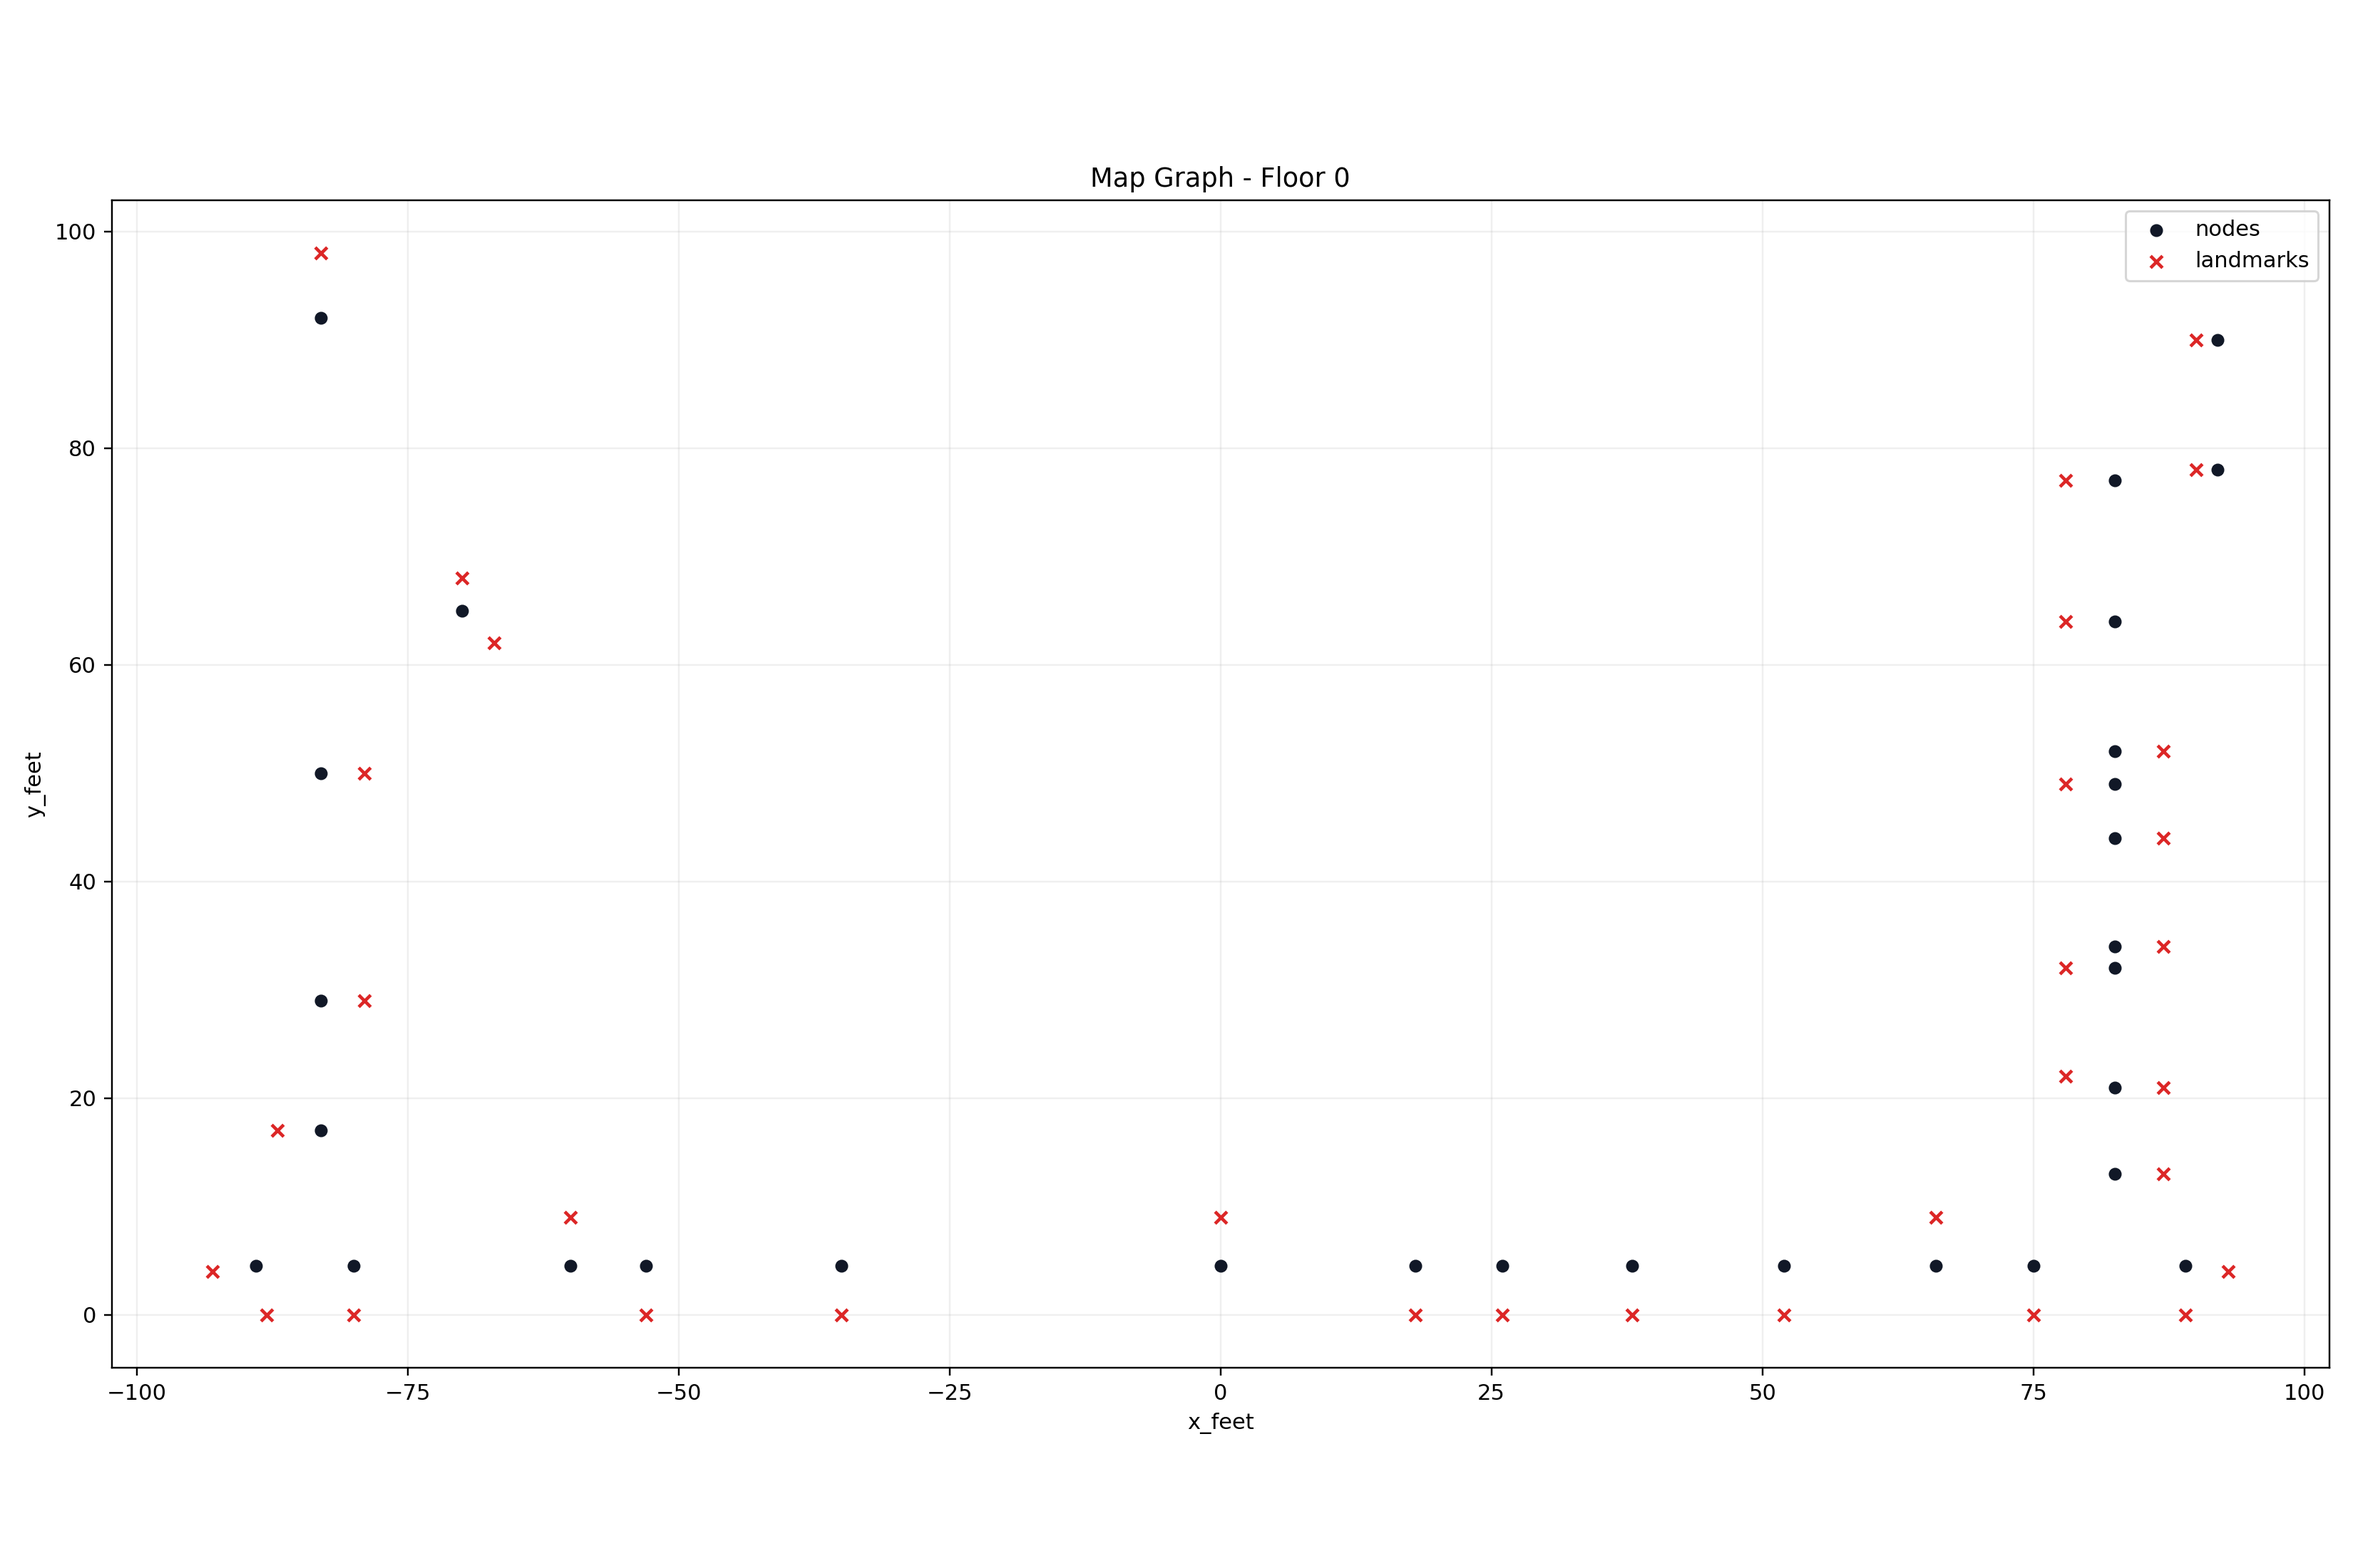
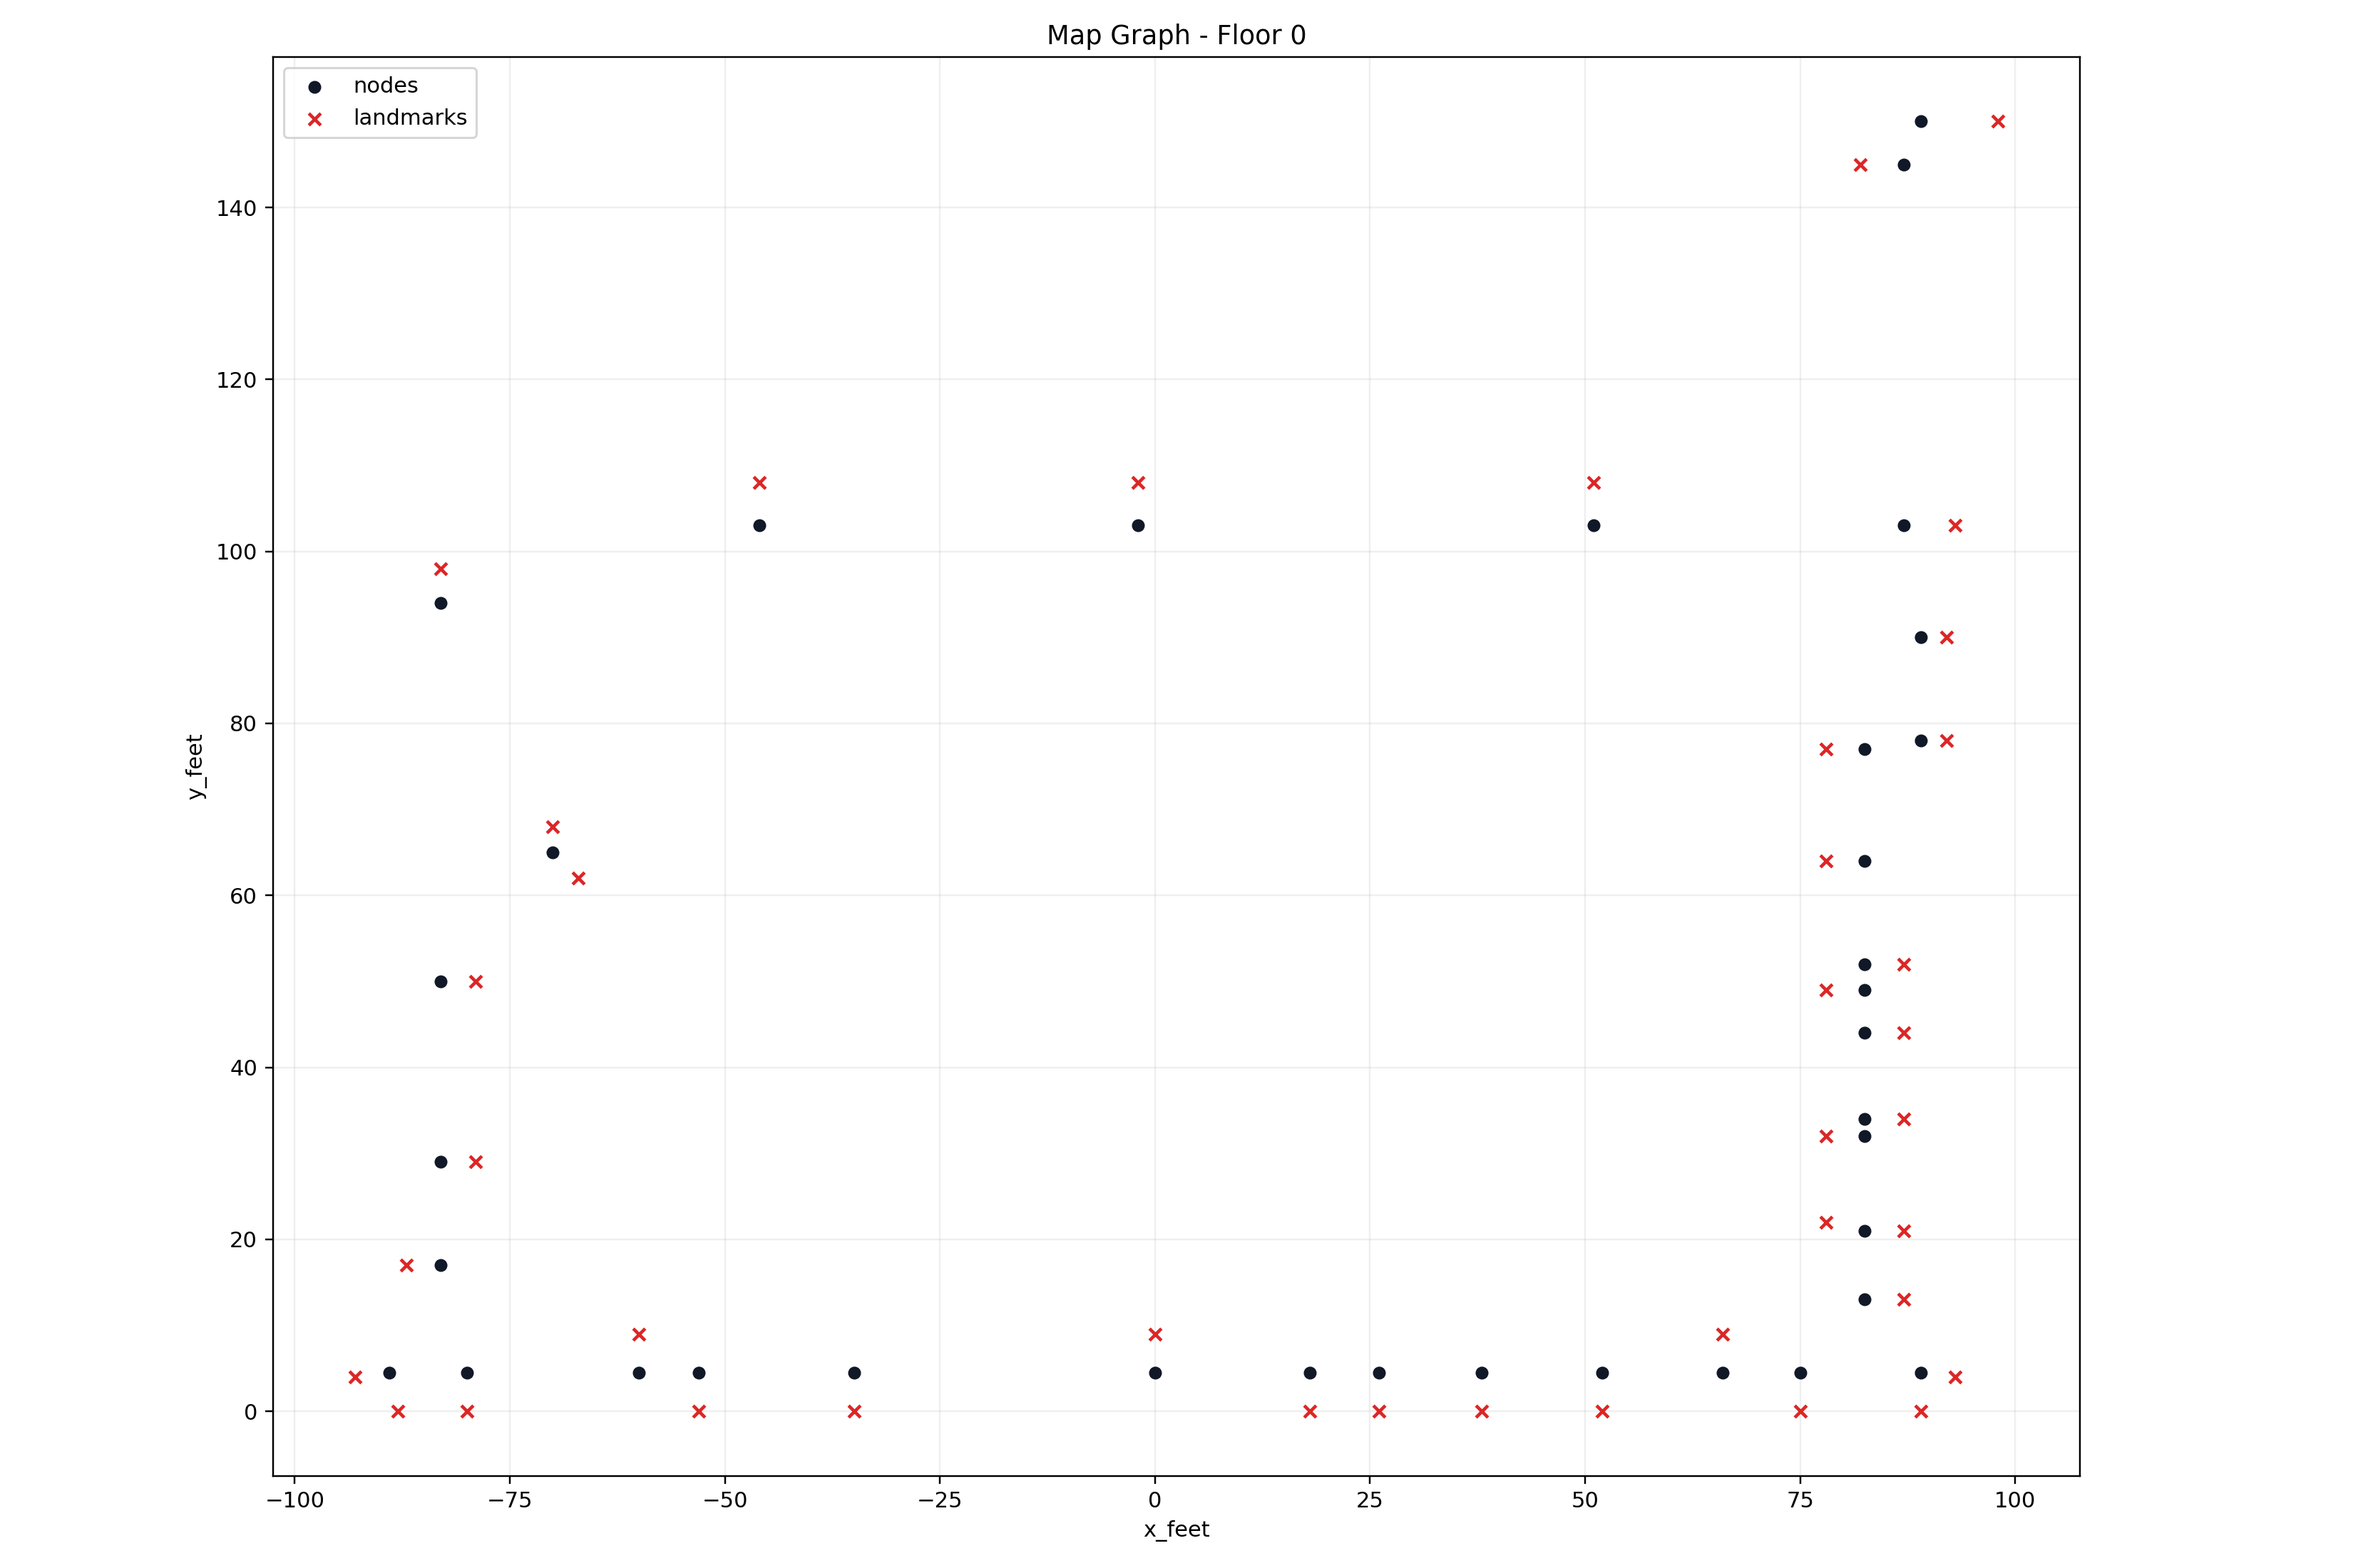
fixes

diff --git a/aws_resources/map_population/floor_data/floor0/nodes.py b/aws_resources/map_population/floor_data/floor0/nodes.py
@@ -288,7 +288,7 @@ NODES = [
     ).asdict(),
     HallwayPointNode(
         id="hall_054",
-        x_feet= 92,
+        x_feet= 89,
         y_feet= 90,
         doors=[
             DoorRef(
@@ -303,12 +303,42 @@ NODES = [
     ).asdict(),
     HallwayPointNode(
         id="hall_054b",
-        x_feet= 92,
+        x_feet= 89,
         y_feet= 78,
         doors=[
             DoorRef(
                 id="room_054",
                 label="Room 054B",
+                side_by_bearing=[
+                    DoorSideByBearing(bearing_deg=0, side="right"), 
+                    DoorSideByBearing(bearing_deg=180, side="left"), 
+                ],
+            ),
+        ],
+    ).asdict(),
+    HallwayPointNode(
+        id="hall_056",
+        x_feet= 89,
+        y_feet= 150,
+        doors=[
+            DoorRef(
+                id="room_056",
+                label="Room 056",
+                side_by_bearing=[
+                    DoorSideByBearing(bearing_deg=0, side="right"), 
+                    DoorSideByBearing(bearing_deg=180, side="left"), 
+                ],
+            ),
+        ],
+    ).asdict(),
+    HallwayPointNode(
+        id="hall_056b",
+        x_feet= 87,
+        y_feet= 103,
+        doors=[
+            DoorRef(
+                id="room_056b",
+                label="Room 056b",
                 side_by_bearing=[
                     DoorSideByBearing(bearing_deg=0, side="right"), 
                     DoorSideByBearing(bearing_deg=180, side="left"), 
@@ -349,7 +379,7 @@ NODES = [
             ),
         ],
     ).asdict(),
-      HallwayPointNode(
+    HallwayPointNode(
         id="hall_039",
         x_feet= 66,
         y_feet= 4.5,
@@ -357,6 +387,66 @@ NODES = [
             DoorRef(
                 id="room_039",
                 label="Room 039",
+                side_by_bearing=[
+                    DoorSideByBearing(bearing_deg=270, side="left"), # 321 degrees
+                    DoorSideByBearing(bearing_deg=90, side="right"), # 141 degrees 
+                ],
+            ),
+        ],
+    ).asdict(),
+    HallwayPointNode(
+        id="hall_059",
+        x_feet= 87,
+        y_feet= 145,
+        doors=[
+            DoorRef(
+                id="room_059",
+                label="Room 059",
+                side_by_bearing=[
+                    DoorSideByBearing(bearing_deg=270, side="left"), # 321 degrees
+                    DoorSideByBearing(bearing_deg=90, side="right"), # 141 degrees 
+                ],
+            ),
+        ],
+    ).asdict(),
+    HallwayPointNode(
+        id="hall_061",
+        x_feet= 51,
+        y_feet= 103,
+        doors=[
+            DoorRef(
+                id="room_061",
+                label="Room 061",
+                side_by_bearing=[
+                    DoorSideByBearing(bearing_deg=270, side="left"), # 321 degrees
+                    DoorSideByBearing(bearing_deg=90, side="right"), # 141 degrees 
+                ],
+            ),
+        ],
+    ).asdict(),
+    HallwayPointNode(
+        id="hall_065",
+        x_feet= -2,
+        y_feet= 103,
+        doors=[
+            DoorRef(
+                id="room_065",
+                label="Room 065",
+                side_by_bearing=[
+                    DoorSideByBearing(bearing_deg=270, side="left"), # 321 degrees
+                    DoorSideByBearing(bearing_deg=90, side="right"), # 141 degrees 
+                ],
+            ),
+        ],
+    ).asdict(),
+    HallwayPointNode(
+        id="hall_069",
+        x_feet= -46,
+        y_feet= 103,
+        doors=[
+            DoorRef(
+                id="room_069",
+                label="Room 069",
                 side_by_bearing=[
                     DoorSideByBearing(bearing_deg=270, side="left"), # 321 degrees
                     DoorSideByBearing(bearing_deg=90, side="right"), # 141 degrees 

diff --git a/aws_resources/map_population/floor_data/floor0/landmarks.py b/aws_resources/map_population/floor_data/floor0/landmarks.py
@@ -28,8 +28,10 @@ LANDMARKS = [
     landmark("Room 048", 87, 34, nearest_node="hall_048", door_id="room_048"),
     landmark("Room 050", 87, 44, nearest_node="hall_050", door_id="room_050"),
     landmark("Room 052", 87, 52, nearest_node="hall_052", door_id="room_052"),
-    landmark("Room 054", 90, 90, nearest_node="hall_054", door_id="room_054"),
-    landmark("Room 054B", 90, 78, nearest_node="hall_054b", door_id="room_054b"),
+    landmark("Room 054", 92, 90, nearest_node="hall_054", door_id="room_054"),
+    landmark("Room 054B", 92, 78, nearest_node="hall_054b", door_id="room_054b"),
+    landmark("Room 056", 98, 150, nearest_node="hall_056", door_id="room_056"),
+    landmark("Room 056B", 93, 103, nearest_node="hall_056b", door_id="room_056b"),
 
     landmark("Room 005", -70, 68, nearest_node="hall_005", door_id="room_005"),
     landmark("Room 005B", -67, 62, nearest_node="hall_005", door_id="room_005b"),
@@ -42,6 +44,11 @@ LANDMARKS = [
     landmark("Room 047", 78, 49, nearest_node="hall_047", door_id="room_047"),
     landmark("Room 049", 78, 64, nearest_node="hall_049", door_id="room_049"),
     landmark("Room 051", 78, 77, nearest_node="hall_051", door_id="room_051"),
+    landmark("Room 059", 82, 145, nearest_node="hall_059", door_id="room_059"),
+    landmark("Room 061", 51, 108, nearest_node="hall_061", door_id="room_061"),
+    landmark("Room 065", -2, 108, nearest_node="hall_069", door_id="room_069"),
+    landmark("Room 069", -46, 108, nearest_node="hall_069", door_id="room_069"),
+
 
 
 
